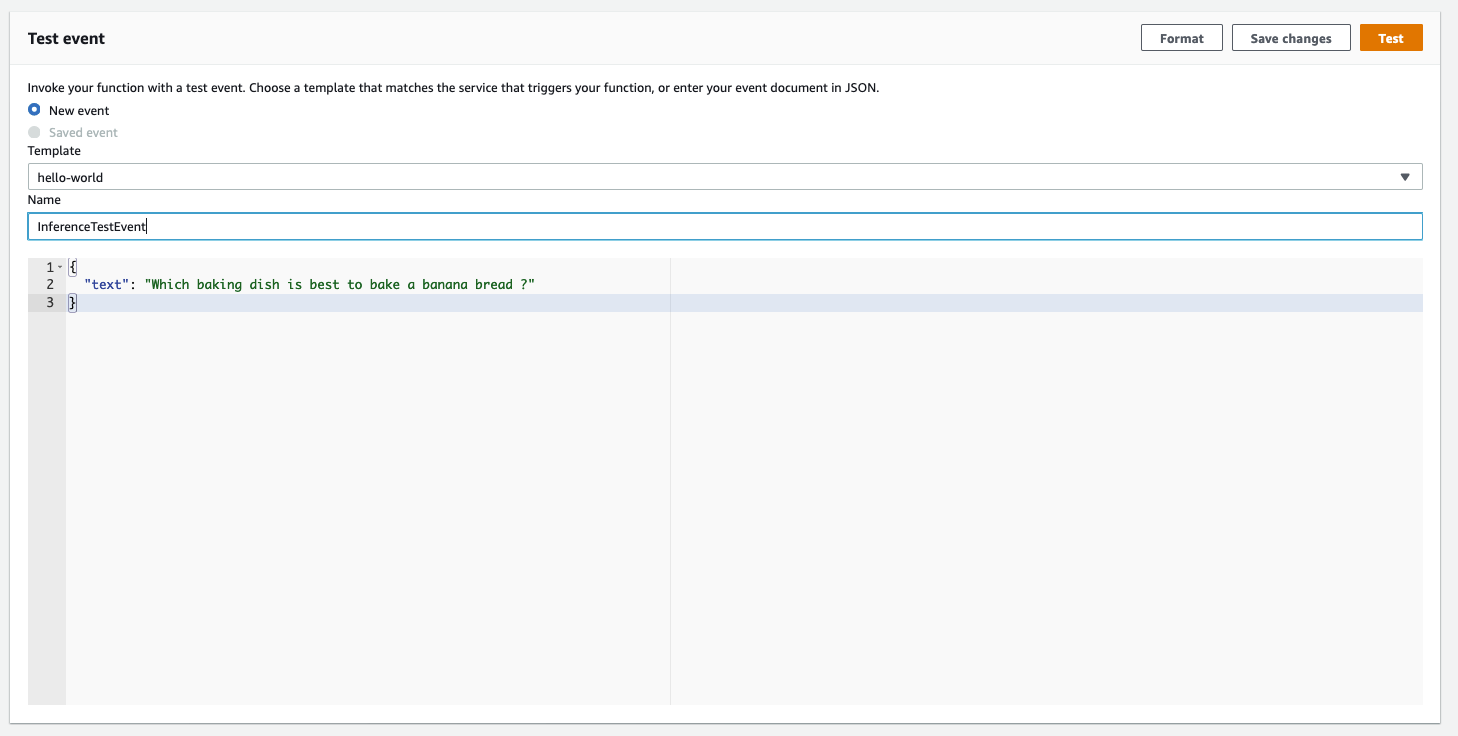
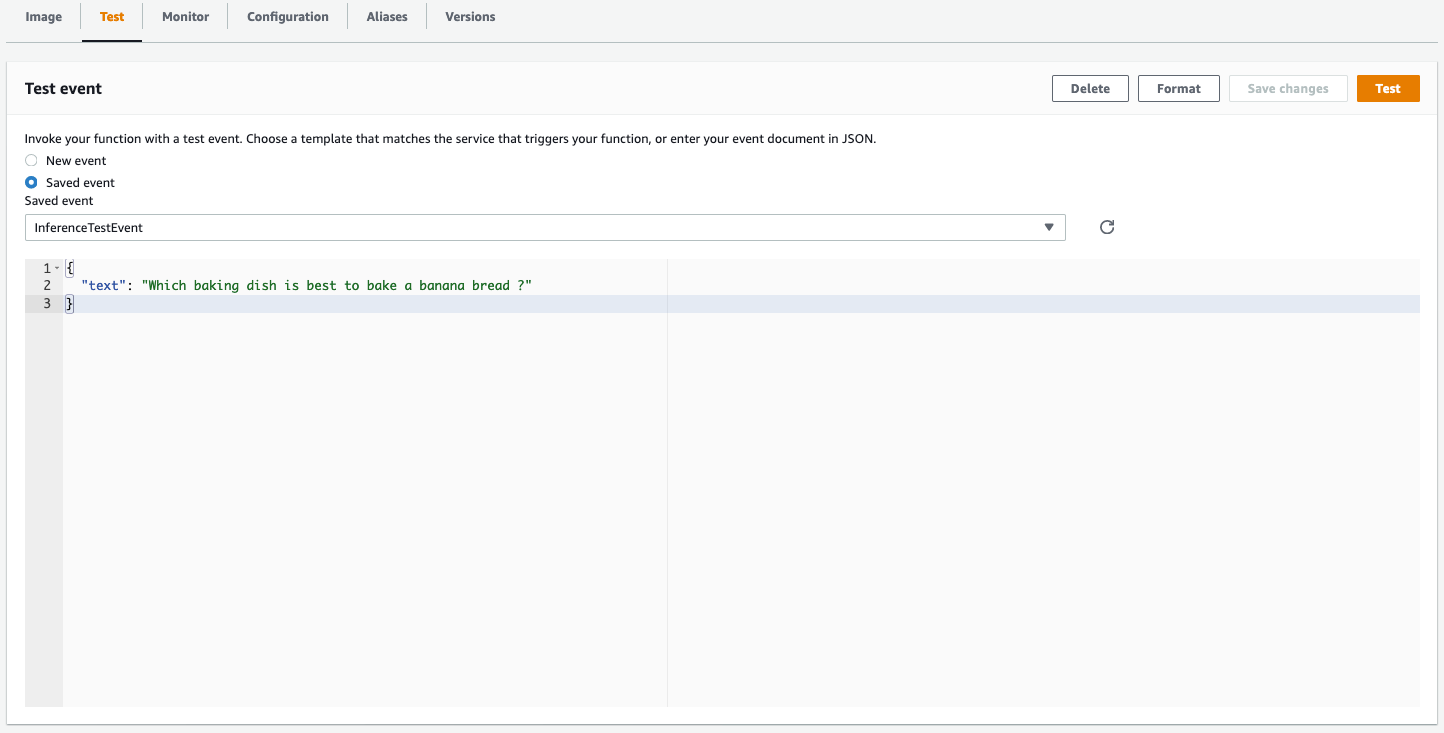
Modified README.md

diff --git a/blazingtext-text-classification-train-in-sagemaker-deploy-with-lambda/README.md b/blazingtext-text-classification-train-in-sagemaker-deploy-with-lambda/README.md
@@ -14,3 +14,18 @@ You'll be running the [BlazingText text classification training with SageMaker, 
 You can run this notebook in [SageMaker Notebook instance](https://docs.aws.amazon.com/sagemaker/latest/dg/nbi.html)
 
 This notebooks is identical to the original [BlazingText text classification](https://github.com/aws/amazon-sagemaker-examples/blob/master/introduction_to_amazon_algorithms/blazingtext_text_classification_dbpedia/blazingtext_text_classification_dbpedia.ipynb) notebook, except the fact that you'll deploy the model in Lambda function.
+
+## Testing your Lambda function in the Cloud
+
+1. In the [Lambda Console](https://console.aws.amazon.com/lambda/), select Configure test events from the Test events dropdown.
+2. For Event Name, enter InferenceTestEvent.
+3. Copy the event JSON from [here](./events/event.json) and paste in the dialog box.
+4. Choose _**Create**_.
+
+![Configure test event](../img/fasttext_configure_test_event.png)
+
+After saving, you see InferenceTestEvent in the Test list. Now choose _**Test**_.
+
+You see the Lambda function inference result, log output, and duration:
+
+![Lambda execution result](../img/fasttext_execution_result.png)
